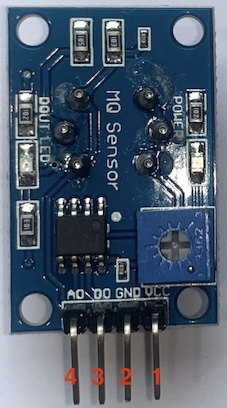
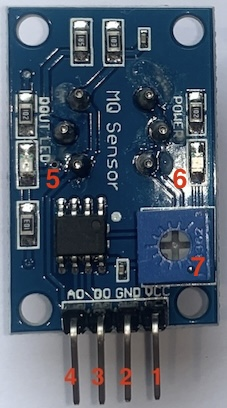
Doc

Changed region(s): [[0.7401, 0.4118, 0.8326, 0.4706], [0.185, 0.4118, 0.2775, 0.4706], [0.8326, 0.6176, 0.9251, 0.6765]]

diff --git a/projects/14-GAS_SENSOR/README.md b/projects/14-GAS_SENSOR/README.md
@@ -104,6 +104,9 @@ The interface and pinout of the MQ series gas sensors are generally the same acr
 | 2 | GND | Ground |
 | 3 | Dout (optional) | Digital output (optional) |
 | 4 | Aout | Analog output |
+| 5 | LED  | Gas indicator | 
+| 6 | LED  | Power Supply | 
+| 7 | Trim-pot | Tune the sensitivity | 
 
 
 ### Interfacing
